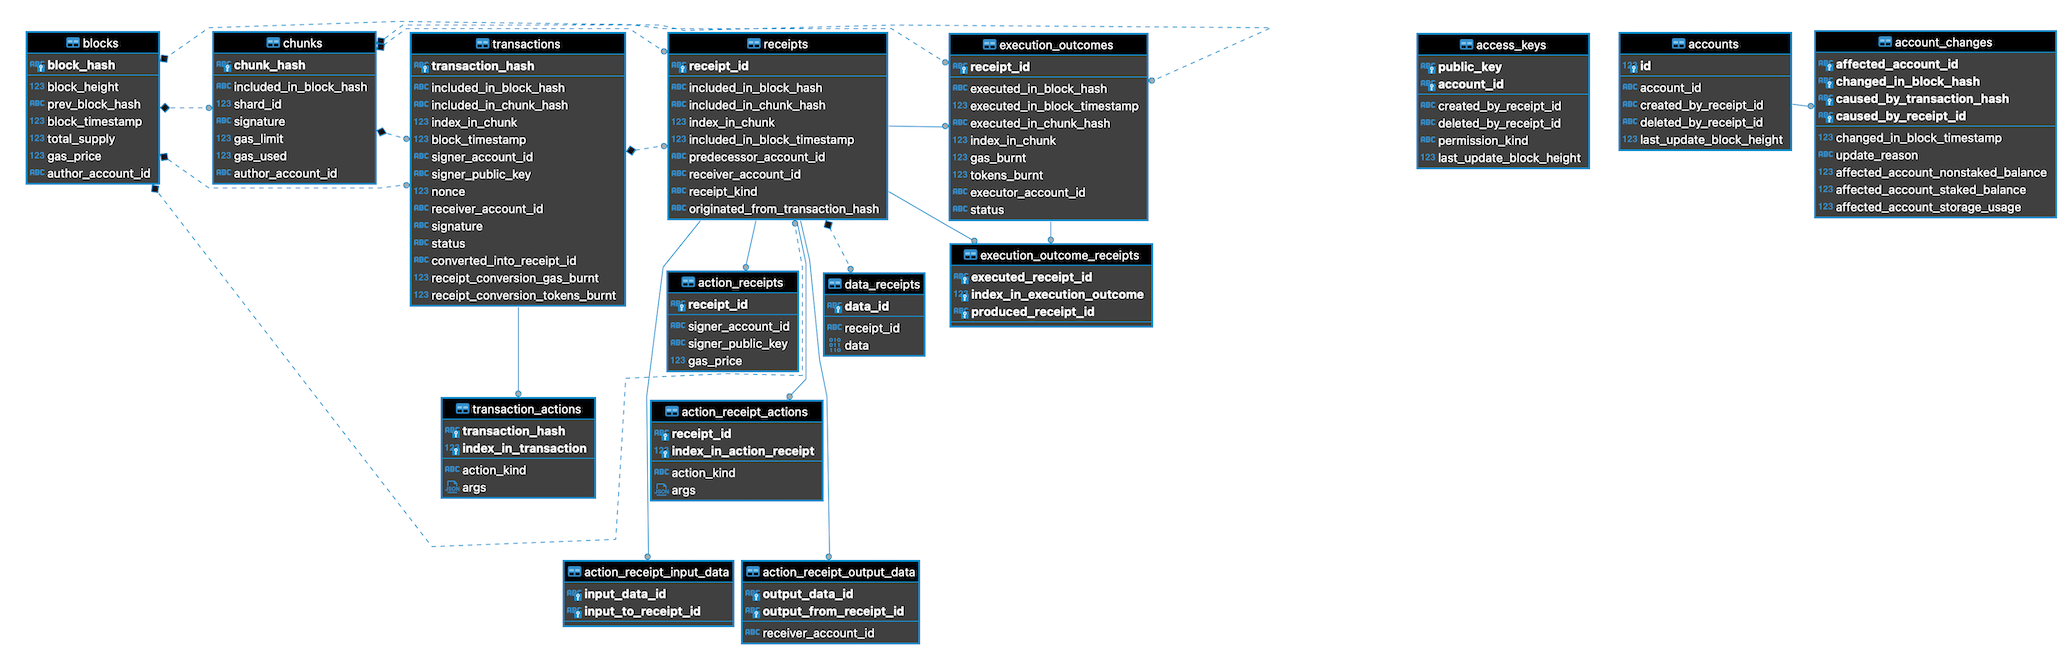
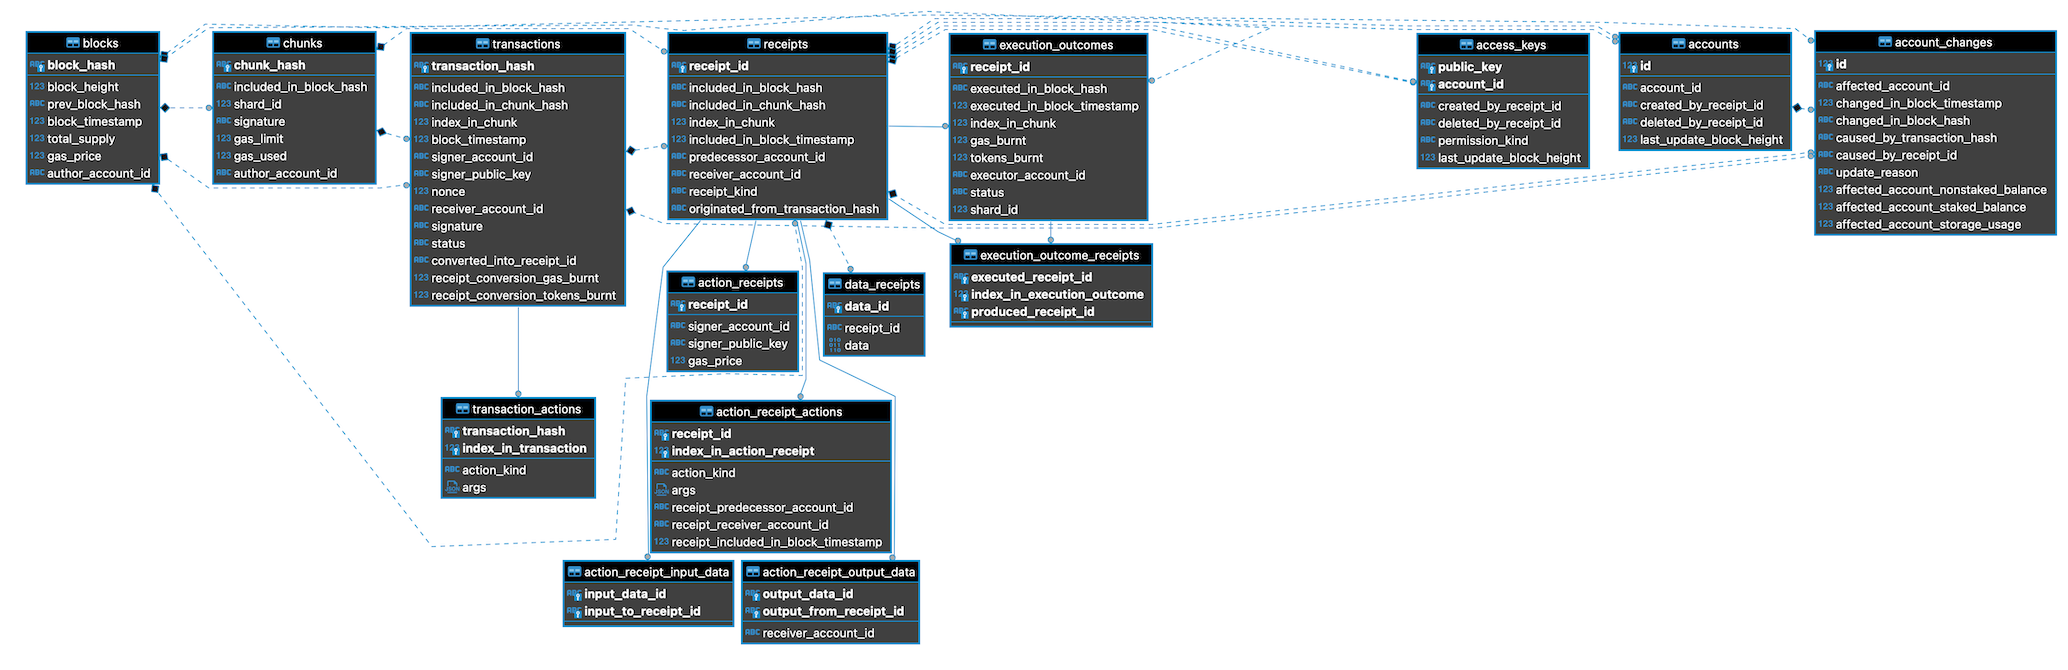
refactor: Denormalize action_receipt_actions table in order to improve common queries performance (#99)
* Create migration to add new columns to action_receipt_actions table (data migration included). Adjust corresponding model and db_adapters

* Add indexes, try parsing base64 encoded arguments as a JSON and put to args field along with args_base64 for FUNCTION_CALL

* address review suggestion

* Add indexed to new fields in action_receipt_actions

* Update migration to decode args_base64 to json and update args field

* Tune up migration

* Split structure migration and data migration (data migration might take long and could be discarded in next release)

* Update Cargo.lock after rebase from master

* Update database struct image in docs folder

* Tune up migrations

* Fix naming in migrations, model and schema

* Update database scheme picture

Changed region(s): [[0.0, 0.0, 1.0, 1.0], [0.588, 0.303, 0.6499, 0.3333]]

diff --git a/src/models/serializers.rs b/src/models/serializers.rs
@@ -80,15 +80,26 @@ pub(crate) fn extract_action_type_and_value_from_action_view(
             args,
             gas,
             deposit,
-        } => (
-            ActionKind::FunctionCall,
-            json!({
+        } => {
+            let mut arguments = json!({
                 "method_name": method_name.escape_default().to_string(),
                 "args_base64": args,
                 "gas": gas,
                 "deposit": deposit.to_string(),
-            }),
-        ),
+            });
+
+            // During denormalization of action_receipt_actions table we wanted to try to decode
+            // args which is base64 encoded in case if it is a JSON object and put them near initial
+            // args_base64
+            // See for reference https://github.com/near/near-indexer-for-explorer/issues/87
+            if let Ok(decoded_args) = base64::decode(args) {
+                if let Ok(args_json) = serde_json::from_slice(&decoded_args) {
+                    arguments["args_json"] = args_json;
+                }
+            }
+
+            (ActionKind::FunctionCall, arguments)
+        }
         ActionView::Transfer { deposit } => (
             ActionKind::Transfer,
             json!({ "deposit": deposit.to_string() }),

diff --git a/src/db_adapters/receipts.rs b/src/db_adapters/receipts.rs
@@ -78,7 +78,8 @@ pub(crate) async fn store_receipts(
             )
         });
 
-    let process_receipt_actions_future = store_receipt_actions(&pool, action_receipts);
+    let process_receipt_actions_future =
+        store_receipt_actions(&pool, action_receipts, block_timestamp);
 
     let process_receipt_data_future = store_receipt_data(&pool, data_receipts);
 
@@ -344,6 +345,7 @@ async fn save_receipts(
 async fn store_receipt_actions(
     pool: &actix_diesel::Database<PgConnection>,
     receipts: Vec<&near_indexer::near_primitives::views::ReceiptView>,
+    block_timestamp: u64,
 ) {
     let receipt_actions: Vec<models::ActionReceipt> = receipts
         .iter()
@@ -362,6 +364,9 @@ async fn store_receipt_actions(
                         receipt.receipt_id.to_string(),
                         i32::from_usize(index).expect("We expect usize to not overflow i32 here"),
                         action,
+                        receipt.predecessor_id.to_string(),
+                        receipt.receiver_id.to_string(),
+                        block_timestamp,
                     )
                 }))
             } else {

diff --git a/src/models/receipts.rs b/src/models/receipts.rs
@@ -118,6 +118,9 @@ pub struct ActionReceiptAction {
     pub index_in_action_receipt: i32,
     pub action_kind: ActionKind,
     pub args: serde_json::Value,
+    pub receipt_predecessor_account_id: String,
+    pub receipt_receiver_account_id: String,
+    pub receipt_included_in_block_timestamp: BigDecimal,
 }
 
 impl ActionReceiptAction {
@@ -125,14 +128,21 @@ impl ActionReceiptAction {
         receipt_id: String,
         index: i32,
         action_view: &near_indexer::near_primitives::views::ActionView,
+        predecessor_account_id: String,
+        receiver_account_id: String,
+        block_timestamp: u64,
     ) -> Self {
         let (action_kind, args) =
             crate::models::extract_action_type_and_value_from_action_view(&action_view);
+
         Self {
             receipt_id,
             index_in_action_receipt: index,
             args,
             action_kind,
+            receipt_predecessor_account_id: predecessor_account_id,
+            receipt_receiver_account_id: receiver_account_id,
+            receipt_included_in_block_timestamp: block_timestamp.into(),
         }
     }
 }

diff --git a/src/schema.rs b/src/schema.rs
@@ -51,6 +51,9 @@ table! {
         index_in_action_receipt -> Int4,
         action_kind -> Action_kind,
         args -> Jsonb,
+        receipt_predecessor_account_id -> Text,
+        receipt_receiver_account_id -> Text,
+        receipt_included_in_block_timestamp -> Numeric,
     }
 }
 

diff --git a/CHANGELOG.md b/CHANGELOG.md
@@ -1,5 +1,12 @@
 # Changelog
 
+## 0.6.3
+
+* Denormalize table `action_receipt_actions` in order to speed up some queries by avoid
+  additional joins
+* Extend `extract_action_type_and_value_from_action_view` function to try to parse base64 encoded args
+  as a JSON object to put them decoded in the function call args `action_receipt_actions.args` additionally
+
 ## 0.6.2
 
 * Upgrade `nearcore` dependency to exclude recent updates to runtime which caused a bug ([see for ref](https://github.com/near/nearcore/releases/tag/1.19.0-rc.2))
